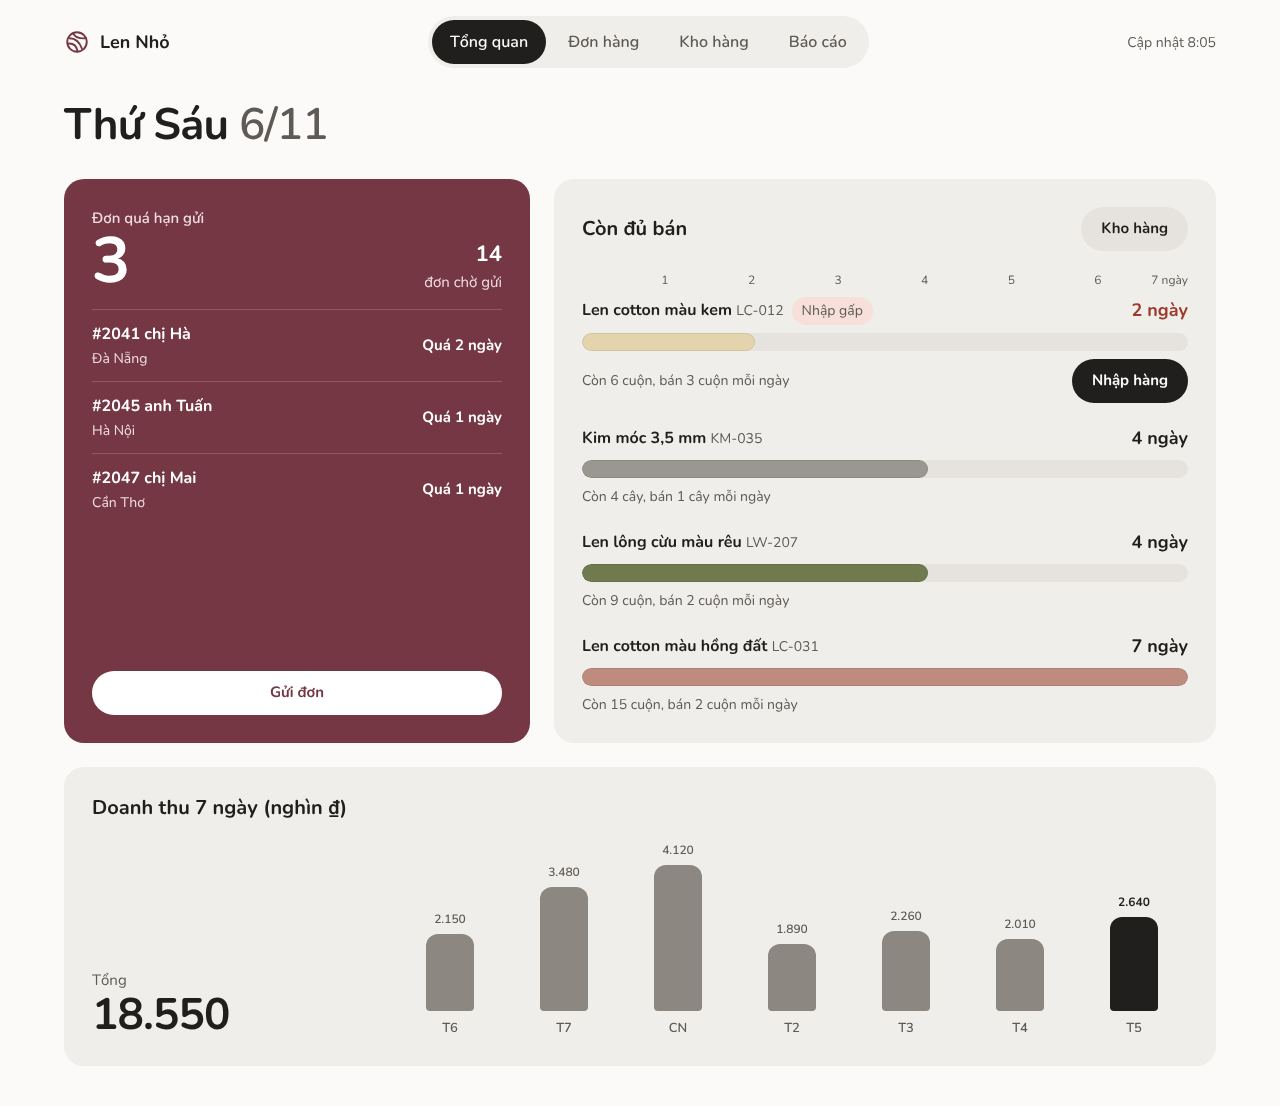
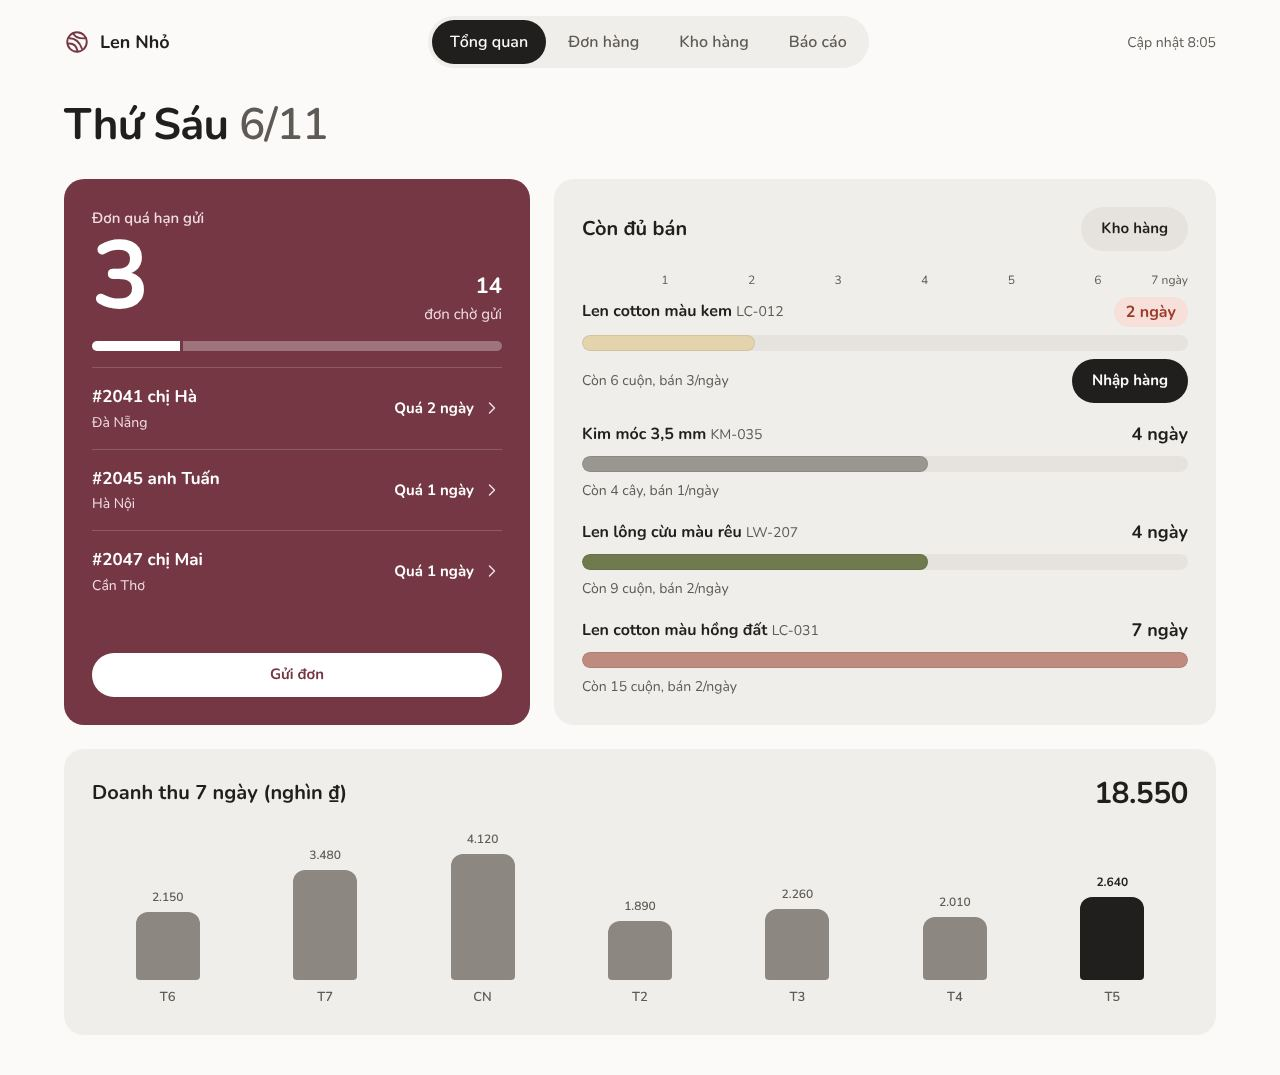
Beauty pairs: three directions for 04-multi-role
Claude-Session: https://claude.ai/code/session_01SboKA1Aqf6jkw3prwWvd7J

diff --git a/benchmarks/trials/2026-11-02-beauty/03-dashboard/c.html b/benchmarks/trials/2026-11-02-beauty/03-dashboard/c.html
@@ -42,7 +42,8 @@ ul{list-style:none}
 .wrap{max-width:1216px;margin:0 auto;padding:8px 16px 32px}
 h1{font-size:34px;line-height:1.15;font-weight:700;letter-spacing:-0.02em;margin-bottom:20px}
 h1 span{color:var(--muted);font-weight:600}
-.grid{display:grid;gap:16px}
+.grid{display:grid;grid-template-columns:minmax(0,1fr);gap:16px}
+.rev .ph{flex-wrap:wrap;row-gap:4px}
 .panel{background:var(--panel);border-radius:var(--r);padding:20px}
 .ph{display:flex;align-items:center;justify-content:space-between;gap:12px;margin-bottom:20px}
 h2{font-size:20px;line-height:1.3;font-weight:700;white-space:nowrap}
@@ -59,34 +60,43 @@ h2{font-size:20px;line-height:1.3;font-weight:700;white-space:nowrap}
 .yname{font-weight:700;line-height:1.3}
 .yname span{font-weight:400;color:var(--muted);font-size:14px;white-space:nowrap}
 .ydays{font-weight:700;font-size:18px;white-space:nowrap}
-.strand{grid-column:1 / -1;height:18px;border-radius:9px;background:var(--panel-2);position:relative;overflow:hidden}
-.strand i{position:absolute;inset:0 auto 0 0;border-radius:9px;box-shadow:inset 0 0 0 1px rgba(0,0,0,.08)}
+.strand{grid-column:1 / -1;height:16px;border-radius:8px;background:var(--panel-2);position:relative;overflow:hidden}
+.strand i{position:absolute;inset:0 auto 0 0;border-radius:8px;box-shadow:inset 0 0 0 1px rgba(0,0,0,.08)}
 .ymeta{grid-column:1 / -1;display:flex;align-items:center;justify-content:space-between;gap:12px;font-size:14px;color:var(--muted)}
 .first .ydays{color:var(--due)}
-.tag{display:inline-flex;align-items:center;min-height:28px;padding:0 10px;border-radius:999px;background:var(--due-soft);color:var(--due);font-size:13px;font-weight:700;margin-left:8px;vertical-align:middle}
+.tag{display:inline-flex;align-items:center;min-height:30px;padding:0 12px;border-radius:999px;background:var(--due-soft);color:var(--due);font-size:16px;font-weight:700}
 
 /* highlight */
 .hl{background:var(--brand);color:var(--brand-ink);border-radius:var(--r);padding:20px;display:flex;flex-direction:column;gap:16px}
 .hl .top-row{display:flex;align-items:flex-end;justify-content:space-between;gap:12px}
 .hl .lab{font-size:15px;font-weight:600;color:var(--soft-ink)}
-.hl .big{font-size:64px;line-height:1;font-weight:700;letter-spacing:-0.03em}
+.hl .big{font-size:72px;line-height:1;font-weight:700;letter-spacing:-0.03em}
 .hl .of{font-size:15px;color:var(--soft-ink);text-align:right}
 .hl .of b{display:block;font-size:22px;color:#FFFFFF}
-.olist li{display:grid;grid-template-columns:1fr auto;gap:2px 12px;padding:12px 0;border-top:1px solid rgba(255,255,255,.18)}
-.olist li:last-child{padding-bottom:0}
-.olist .who{font-weight:700}
+.olist li{border-top:1px solid rgba(255,255,255,.18)}
+.olist a{display:grid;grid-template-columns:1fr auto auto;gap:2px 8px;align-items:center;padding:16px 0;min-height:44px}
+.olist .who{grid-column:1;grid-row:1}
+.olist .city{grid-column:1;grid-row:2}
+.olist .late{grid-column:2;grid-row:1 / span 2}
+.olist .chev{grid-column:3;grid-row:1 / span 2}
+.olist li:last-child a{padding-bottom:0}
+.olist .chev{color:var(--soft-ink)}
+.split{display:flex;gap:3px;height:10px;border-radius:5px;overflow:hidden}
+.split i{display:block;height:100%}
+.split .s1{width:21.4%;background:#FFFFFF}
+.split .s2{flex:1;background:rgba(255,255,255,.3)}
+.olist .who{font-weight:700;font-size:17px}
 .olist .city{font-size:14px;color:var(--soft-ink)}
-.olist .late{grid-row:span 2;align-self:center;font-weight:700;font-size:15px;white-space:nowrap}
+.olist .late{align-self:center;font-weight:700;font-size:15px;white-space:nowrap}
 .hl .btn{align-self:stretch;margin-top:auto}
 
 /* revenue */
 .rev-body{display:grid;gap:20px}
-.sum b{display:block;font-size:44px;line-height:1.05;font-weight:700;letter-spacing:-0.02em}
-.sum span{color:var(--muted);font-size:15px}
-.chart{display:grid;grid-template-columns:repeat(7,minmax(0,1fr));gap:6px;align-items:end;height:170px}
+.sum{font-size:30px;line-height:1.1;font-weight:700;letter-spacing:-0.02em}
+.chart{display:grid;grid-template-columns:repeat(7,minmax(0,1fr));gap:6px;align-items:end;height:150px}
 .col{display:flex;flex-direction:column;align-items:center;justify-content:flex-end;gap:6px;height:100%}
 .col .v{font-size:12px;color:var(--muted);font-weight:600}
-.col .b{width:100%;max-width:48px;border-radius:12px 12px 4px 4px;background:var(--rev)}
+.col .b{width:100%;max-width:64px;border-radius:12px 12px 4px 4px;background:var(--rev)}
 .col.now .b{background:var(--rev-now)}
 .col.now .v{color:var(--ink);font-weight:700}
 .axis{display:grid;grid-template-columns:repeat(7,minmax(0,1fr));gap:6px;padding-top:8px;font-size:13px;color:var(--muted);text-align:center;font-weight:600}
@@ -100,10 +110,9 @@ h2{font-size:20px;line-height:1.3;font-weight:700;white-space:nowrap}
   .grid{grid-template-columns:repeat(12,minmax(0,1fr));gap:24px}
   .stock{grid-column:span 7}
   .hl{grid-column:span 5;padding:28px}
+  .hl .big{font-size:96px}
   .stock{padding:28px}
   .rev{grid-column:span 12;padding:28px}
-  .rev-body{grid-template-columns:3fr 9fr;align-items:end;gap:40px}
-  .yarn{gap:22px}
 }
 </style>
 </head>
@@ -134,10 +143,11 @@ h2{font-size:20px;line-height:1.3;font-weight:700;white-space:nowrap}
         </div>
         <div class="of"><b>14</b>đơn chờ gửi</div>
       </div>
+      <div class="split" role="img" aria-label="3 đơn quá hạn trong 14 đơn chờ gửi"><i class="s1"></i><i class="s2"></i></div>
       <ul class="olist">
-        <li><span class="who">#2041 chị Hà</span><span class="late">Quá 2 ngày</span><span class="city">Đà Nẵng</span></li>
-        <li><span class="who">#2045 anh Tuấn</span><span class="late">Quá 1 ngày</span><span class="city">Hà Nội</span></li>
-        <li><span class="who">#2047 chị Mai</span><span class="late">Quá 1 ngày</span><span class="city">Cần Thơ</span></li>
+        <li><a href="don-hang/2041.html"><span class="who">#2041 chị Hà</span><span class="late">Quá 2 ngày</span><span class="city">Đà Nẵng</span><svg class="chev" width="20" height="20" viewBox="0 0 24 24" fill="none" stroke="currentColor" stroke-width="1.75" stroke-linecap="round" stroke-linejoin="round" aria-hidden="true"><path d="m9 6 6 6-6 6"/></svg></a></li>
+        <li><a href="don-hang/2045.html"><span class="who">#2045 anh Tuấn</span><span class="late">Quá 1 ngày</span><span class="city">Hà Nội</span><svg class="chev" width="20" height="20" viewBox="0 0 24 24" fill="none" stroke="currentColor" stroke-width="1.75" stroke-linecap="round" stroke-linejoin="round" aria-hidden="true"><path d="m9 6 6 6-6 6"/></svg></a></li>
+        <li><a href="don-hang/2047.html"><span class="who">#2047 chị Mai</span><span class="late">Quá 1 ngày</span><span class="city">Cần Thơ</span><svg class="chev" width="20" height="20" viewBox="0 0 24 24" fill="none" stroke="currentColor" stroke-width="1.75" stroke-linecap="round" stroke-linejoin="round" aria-hidden="true"><path d="m9 6 6 6-6 6"/></svg></a></li>
       </ul>
       <a class="btn btn-white" href="don-hang.html?loc=qua-han">Gửi đơn</a>
     </section>
@@ -150,36 +160,35 @@ h2{font-size:20px;line-height:1.3;font-weight:700;white-space:nowrap}
       <div class="scale" aria-hidden="true"><span>1</span><span>2</span><span>3</span><span>4</span><span>5</span><span>6</span><span>7 ngày</span></div>
       <ul class="yarn">
         <li class="first">
-          <div class="yname">Len cotton màu kem <span>LC-012</span><span class="tag">Nhập gấp</span></div>
-          <div class="ydays">2 ngày</div>
+          <div class="yname">Len cotton màu kem <span>LC-012</span></div>
+          <div class="ydays"><span class="tag">2 ngày</span></div>
           <div class="strand" role="img" aria-label="Đủ bán 2 trên 7 ngày"><i style="width:28.6%;background:#E3D4AE"></i></div>
-          <div class="ymeta"><span>Còn 6 cuộn, bán 3 cuộn mỗi ngày</span><a class="btn btn-ink" href="nhap-hang.html?ma=LC-012">Nhập hàng</a></div>
+          <div class="ymeta"><span>Còn 6 cuộn, bán 3/ngày</span><a class="btn btn-ink" href="nhap-hang.html?ma=LC-012">Nhập hàng</a></div>
         </li>
         <li>
           <div class="yname">Kim móc 3,5 mm <span>KM-035</span></div>
           <div class="ydays">4 ngày</div>
           <div class="strand" role="img" aria-label="Đủ bán 4 trên 7 ngày"><i style="width:57.1%;background:#9A9690"></i></div>
-          <div class="ymeta"><span>Còn 4 cây, bán 1 cây mỗi ngày</span></div>
+          <div class="ymeta"><span>Còn 4 cây, bán 1/ngày</span></div>
         </li>
         <li>
           <div class="yname">Len lông cừu màu rêu <span>LW-207</span></div>
           <div class="ydays">4 ngày</div>
           <div class="strand" role="img" aria-label="Đủ bán 4 trên 7 ngày"><i style="width:57.1%;background:#6F7A4E"></i></div>
-          <div class="ymeta"><span>Còn 9 cuộn, bán 2 cuộn mỗi ngày</span></div>
+          <div class="ymeta"><span>Còn 9 cuộn, bán 2/ngày</span></div>
         </li>
         <li>
           <div class="yname">Len cotton màu hồng đất <span>LC-031</span></div>
           <div class="ydays">7 ngày</div>
           <div class="strand" role="img" aria-label="Đủ bán 7 trên 7 ngày"><i style="width:100%;background:#BE8B7E"></i></div>
-          <div class="ymeta"><span>Còn 15 cuộn, bán 2 cuộn mỗi ngày</span></div>
+          <div class="ymeta"><span>Còn 15 cuộn, bán 2/ngày</span></div>
         </li>
       </ul>
     </section>
 
     <section class="panel rev" aria-labelledby="t-rev">
-      <div class="ph"><h2 id="t-rev">Doanh thu 7 ngày (nghìn ₫)</h2></div>
+      <div class="ph"><h2 id="t-rev">Doanh thu 7 ngày (nghìn ₫)</h2><b class="sum">18.550</b></div>
       <div class="rev-body">
-        <div class="sum"><span>Tổng</span><b>18.550</b></div>
         <div>
           <div class="chart" role="img" aria-label="Doanh thu 7 ngày, nghìn đồng: T6 2.150, T7 3.480, CN 4.120, T2 1.890, T3 2.260, T4 2.010, T5 2.640" data-chart>
             <div class="col"><span class="v">2.150</span><span class="b" style="height:45%"></span></div>

diff --git a/benchmarks/trials/2026-11-02-beauty/04-multi-role/c.html b/benchmarks/trials/2026-11-02-beauty/04-multi-role/c.html
@@ -64,21 +64,23 @@ main{padding:28px 32px 32px;max-width:1360px;margin:0 auto}
 .chip.err{background:var(--err-bg);color:var(--err)}
 .chip svg{width:16px;height:16px}
 
-.v{display:grid;grid-template-columns:52px minmax(0,1fr);gap:12px;padding:16px;background:var(--surface);border-radius:var(--r);border:1px solid var(--line)}
+.v{display:grid;grid-template-columns:52px minmax(0,1fr) auto;gap:4px 12px;align-items:start;padding:16px;background:var(--surface);border-radius:var(--r);border:1px solid var(--line)}
 a.v:hover{border-color:#B9C8BE}
 .v.slot{background:none;border:1.5px dashed #AFC0B4;align-items:center}
 .v .t{font-size:17px;font-weight:500;line-height:1.4}
 .v .b{display:flex;flex-direction:column;gap:2px;min-width:0}
 .v .b b{font-size:16px}
 .v .b .s{font-size:14px;color:var(--muted)}
-.v .chip{margin-top:6px;align-self:flex-start}
+.v>.chip{margin-top:0}
+.v .wide{grid-column:2/-1}
+.v.slot{grid-template-columns:52px minmax(0,1fr)}
 .v.done .t,.v.done .b b{color:var(--muted)}
-.v .acts{display:flex;gap:8px;margin-top:10px;flex-wrap:wrap}
+.v .acts{display:flex;gap:8px;margin-top:8px;flex-wrap:wrap}
 .nowline{display:flex;align-items:center;gap:10px;color:var(--brand);font-size:13px;font-weight:600;height:20px}
 .nowline::after{content:"";flex:1;height:2px;background:var(--brand);border-radius:2px}
 .free{display:flex;align-items:center;justify-content:space-between;gap:8px}
 .free b{font-size:15px;color:var(--brand-ink)}
-.clash{margin-top:12px;border:1.5px dashed var(--err);background:var(--err-bg);border-radius:10px;padding:14px;display:flex;flex-direction:column;gap:4px}
+.clash{margin-top:8px;border:1.5px dashed var(--err);background:var(--err-bg);border-radius:10px;padding:14px;display:flex;flex-direction:column;gap:4px}
 .clash .hd{display:flex;align-items:center;justify-content:space-between;gap:8px;flex-wrap:wrap}
 .clash b{font-size:15px}
 .clash .msg{font-size:14px;color:var(--err);font-weight:400}
@@ -101,7 +103,7 @@ a.v:hover{border-color:#B9C8BE}
   .stat{padding:0 0 0 12px}
   .stat b{font-size:22px}
   .stat span{font-size:12px}
-  .lanes{grid-template-columns:1fr;gap:16px;margin-top:16px}
+  .lanes{grid-template-columns:1fr;gap:32px;margin-top:20px}
   .bnav{display:flex;position:fixed;left:0;right:0;bottom:0;background:var(--surface);border-top:1px solid var(--line);padding:8px 16px calc(8px + env(safe-area-inset-bottom));justify-content:space-between;z-index:5}
   .bnav a{height:48px;min-width:48px;display:flex;align-items:center;justify-content:center;gap:8px;border-radius:999px;color:var(--muted)}
   .bnav a[aria-current]{background:var(--brand-soft);color:var(--brand-ink);padding:0 16px;font-weight:500;font-size:14px}
@@ -152,28 +154,28 @@ a.v:hover{border-color:#B9C8BE}
     <div class="lanes">
       <section class="lane" aria-label="Ghế 1">
         <div class="lh"><div class="w"><h2>Ghế 1</h2><span>BS. Phan Minh Đức</span></div><span class="chip">Trống</span></div>
-        <a class="v done" href="#bn-vo-thi-hong"><span class="t">8:00</span><span class="b"><b>Võ Thị Hồng</b><span class="s">Trám răng</span><span class="chip"><svg class="i"><use href="#check"/></svg>Đã đến</span></span></a>
+        <a class="v done" href="#bn-vo-thi-hong"><span class="t">8:00</span><span class="b"><b>Võ Thị Hồng</b><span class="s">Trám răng</span></span><span class="chip"><svg class="i"><use href="#check"/></svg>Đã đến</span></a>
         <div class="nowline">9:15</div>
-        <a class="v" href="#bn-lam-gia-bao"><span class="t">9:30</span><span class="b"><b>Lâm Gia Bảo</b><span class="s">Nhổ răng sữa, 8 tuổi</span><span class="chip">Chưa đến</span></span></a>
+        <a class="v" href="#bn-lam-gia-bao"><span class="t">9:30</span><span class="b"><b>Lâm Gia Bảo</b><span class="s">Nhổ răng sữa, 8 tuổi</span></span><span class="chip">Chưa đến</span></a>
         <div class="v slot"><span class="t">10:30</span><span class="b"><span class="free"><b>Trống</b><a class="btn ghost" href="#dat-lich">Xếp khách</a></span></span></div>
       </section>
 
       <section class="lane" aria-label="Ghế 2">
         <div class="lh"><div class="w"><h2>Ghế 2</h2><span>BS. Hoàng Lan</span></div><span class="chip busy">Đang khám</span></div>
-        <a class="v" href="#bn-dang-quoc-viet"><span class="t">8:30</span><span class="b"><b>Đặng Quốc Việt</b><span class="s">Nhổ răng khôn</span><span class="chip busy">Đang khám</span></span></a>
+        <a class="v" href="#bn-dang-quoc-viet"><span class="t">8:30</span><span class="b"><b>Đặng Quốc Việt</b><span class="s">Nhổ răng khôn</span></span><span class="chip busy">Đang khám</span></a>
         <div class="nowline">9:15</div>
-        <div class="v" id="dat-lich"><span class="t">10:00</span><span class="b"><b>Trương Văn Nam</b><span class="s">Tái khám niềng</span><span class="chip">Chưa đến</span>
-          <span class="clash" role="alert">
+        <div class="v" id="dat-lich"><span class="t">10:00</span><span class="b"><b>Trương Văn Nam</b><span class="s">Tái khám niềng</span></span><span class="chip">Chưa đến</span>
+          <span class="clash wide" role="alert">
             <span class="hd"><b>Ngô Thanh Tâm</b><span class="chip err"><svg class="i"><use href="#alert"/></svg>Trùng giờ</span></span>
             <span class="msg">Khách vãng lai, khám tổng quát</span>
             <span class="acts"><button class="btn">Hủy</button><button class="btn">Sang Ghế 1</button></span>
-          </span></span></div>
+          </span></div>
       </section>
 
       <section class="lane" aria-label="Ghế 3">
         <div class="lh"><div class="w"><h2>Ghế 3</h2><span>KTV Trần Bảo</span></div><span class="chip late">Chờ khách</span></div>
-        <div class="v"><span class="t">9:00</span><span class="b"><b>Hồ Ngọc Mai</b><span class="s">Cạo vôi</span><span class="chip late">Muộn 15 phút</span>
-          <span class="acts"><a class="btn" href="#goi-ho-ngoc-mai"><svg class="i"><use href="#phone"/></svg>Gọi điện</a></span></span></div>
+        <div class="v"><span class="t">9:00</span><span class="b"><b>Hồ Ngọc Mai</b><span class="s">Cạo vôi</span></span><span class="chip late">Muộn 15 phút</span>
+          <span class="acts wide"><a class="btn" href="#goi-ho-ngoc-mai"><svg class="i"><use href="#phone"/></svg>Gọi điện</a><a class="btn" href="#nhan-ho-ngoc-mai">Nhắn tin</a></span></div>
         <div class="nowline">9:15</div>
         <div class="v slot"><span class="t">9:30</span><span class="b"><span class="free"><b>Trống</b><a class="btn ghost" href="#dat-lich">Xếp khách</a></span></span></div>
       </section>

diff --git a/benchmarks/trials/2026-11-02-beauty/03-dashboard/NOTES.md b/benchmarks/trials/2026-11-02-beauty/03-dashboard/NOTES.md
@@ -1,0 +1,16 @@
+# 03-dashboard: ba hướng
+
+**a. Bàn làm việc**
+- Thứ bậc: lưới 7/5 hai hàng; đơn quá hạn và một card rêu đậm "Cần nhập gấp" ở hàng đầu, biểu đồ doanh thu và danh sách sắp hết hàng ở hàng sau.
+- Mật độ vừa, card trắng viền mảnh bo 10 px, Be Vietnam Pro, xanh rêu là màu thương hiệu, chấm màu len cạnh từng sản phẩm.
+- Đánh đổi: quen mắt và dễ quét nhất, nhưng ít cá tính; card nổi bật chỉ nói về một mặt hàng.
+
+**b. Danh sách việc**
+- Thứ bậc: một danh sách việc duy nhất (Gửi đơn quá hạn, rồi Nhập hàng) chiếm 8 cột; số liệu (14 đơn chờ gửi, doanh thu) lùi sang cột phải.
+- Thoáng, gần như không card: đường kẻ mảnh, tiêu đề nhóm gạch đậm, sidebar trái trên máy tính, bottom nav dạng viên trên điện thoại; Plus Jakarta Sans, màu mận.
+- Đánh đổi: trả lời câu hỏi "làm gì trước" nhanh nhất, nhưng trên điện thoại trang dài vì mỗi sản phẩm có nút riêng.
+
+**c. Sợi len**
+- Thứ bậc: số đơn quá hạn cỡ 96 px trên card hồng đất đậm đứng đầu; bên cạnh là "Còn đủ bán" vẽ bằng thanh dày tô đúng màu sợi len của từng sản phẩm.
+- Khối nền xám ấm không viền, bo 20 px, nút viên, Nunito chữ tròn; doanh thu trải ngang cả trang.
+- Đánh đổi: có chất riêng của shop len và nhìn mức tồn kho bằng mắt nhanh nhất, nhưng tốn chỗ hơn và chỉ một sản phẩm có nút Nhập hàng.

diff --git a/benchmarks/trials/2026-11-02-beauty/04-multi-role/NOTES.md b/benchmarks/trials/2026-11-02-beauty/04-multi-role/NOTES.md
@@ -1,0 +1,16 @@
+# 04-multi-role: lịch hôm nay của lễ tân
+
+## a. Lưới ghế
+Thứ bậc: lưới ghế × giờ đứng giữa, vạch "9:15" cắt ngang. Cột phải là "Đến muộn" và form khách vãng lai đang báo trùng giờ.
+Mật độ vừa. Be Vietnam Pro, xanh dầu, thanh bên sáng, ô lượt tô nền nhạt theo trạng thái.
+Đổi lại: đọc theo không gian nên thấy ngay ghế trống, nhưng ô trống nhiều và tên dài dễ chật.
+
+## b. Hàng chờ
+Thứ bậc: card tím mận "Tiếp theo: Lâm Gia Bảo" ở trên cùng, cạnh hai ô "Đến muộn" và "Ghế trống". Dưới là danh sách cả ngày, bên phải là ghế lúc này và khách vãng lai.
+Mật độ cao. Plus Jakarta Sans đậm, nút dạng viên, thanh bên tối hẹp.
+Đổi lại: trả lời "ai tiếp theo" nhanh nhất, nhưng mất góc nhìn theo ghế và có 4 màu trạng thái trên màn.
+
+## c. Theo ghế
+Thứ bậc: giờ "9:15" cỡ lớn kèm bốn con số, rồi ba cột ghế. Mỗi ghế là một chồng thẻ lượt, vạch giờ hiện tại nằm trong từng cột. Trùng giờ hiện ngay trong thẻ của Trương Văn Nam.
+Mật độ thoáng. Lexend, xanh lá, thanh trên ngang, không có thanh bên, thẻ nổi trên nền xám lá.
+Đổi lại: thân thiện và dễ đọc nhất, nhưng không đặt lượt theo trục giờ thật nên khó so sánh giữa các ghế, và đáy khung 1280 còn trống.
